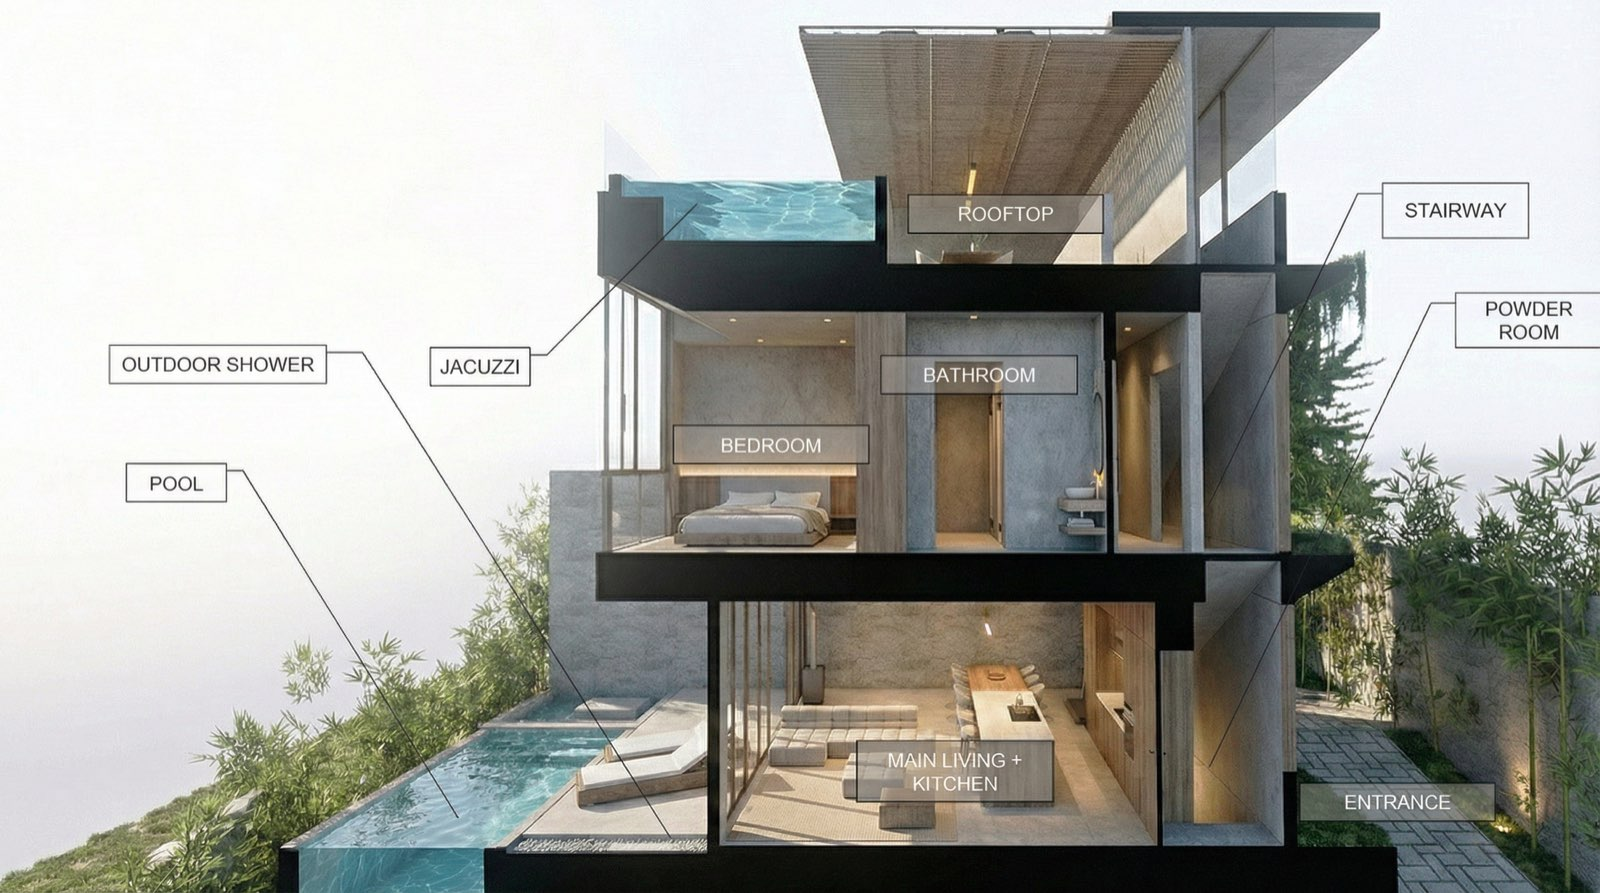
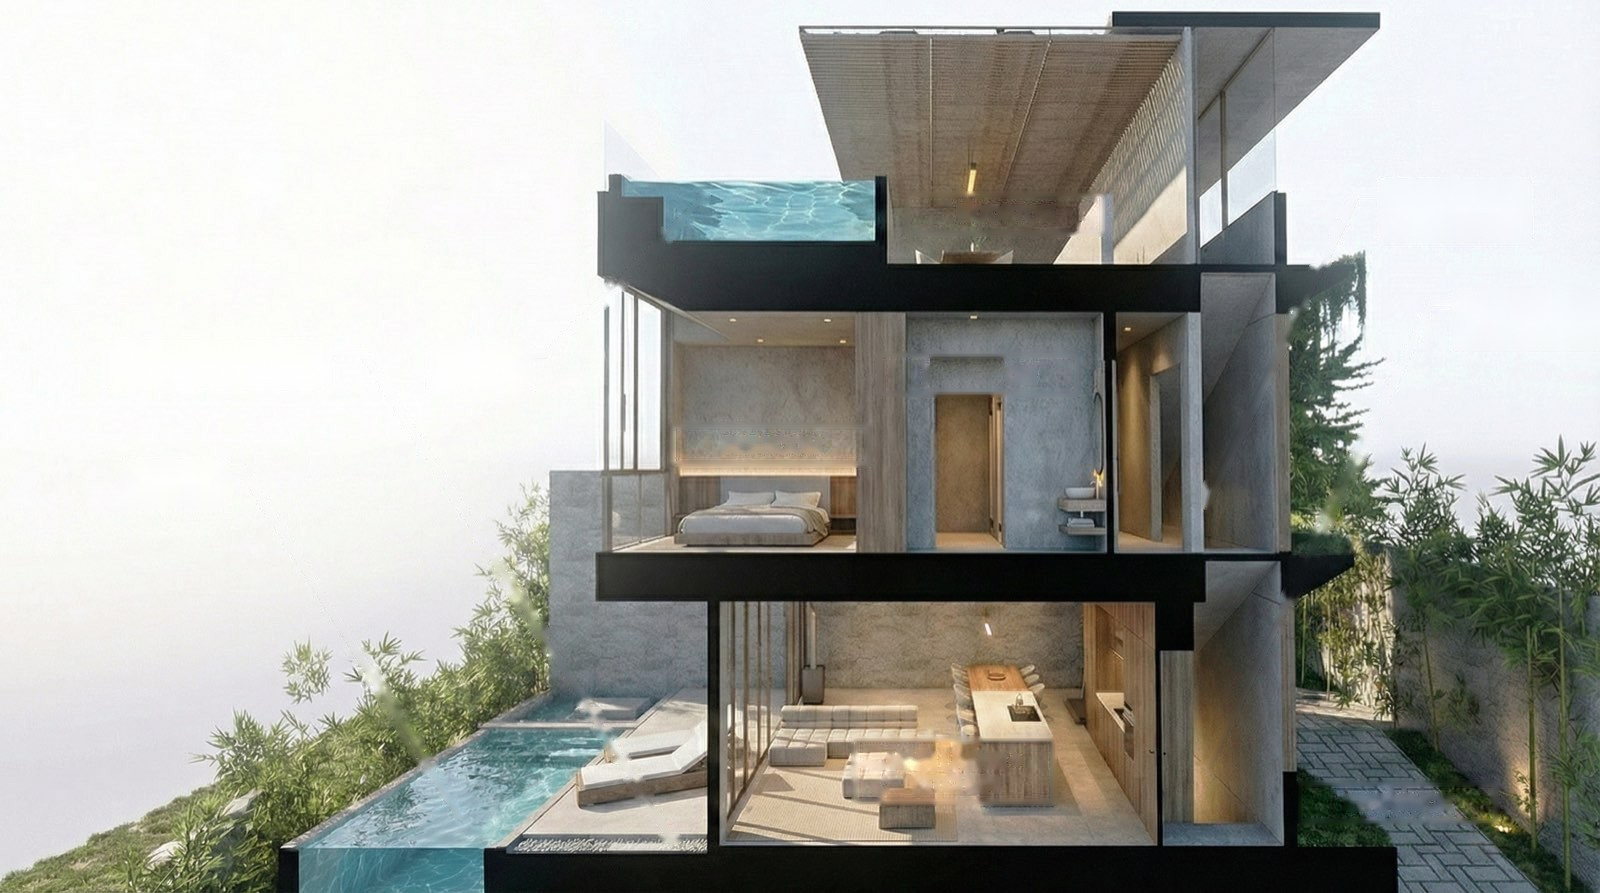
Remove the baked-in labels from the section drawing
The level bands and the floorplan key now name every room, so the grey label
boxes and leader lines printed on the render only added clutter. Labels over
the sky were filled from their surroundings; those over the interior had their
grey tint reversed and only the lettering painted over. Bumps the image URL so
cached copies refresh.

Claude-Session: https://claude.ai/code/session_01ERckJyE6Fn1BmKJxGNPjDB

diff --git a/brochure/index.html b/brochure/index.html
@@ -742,7 +742,7 @@ body.narrow .price-t td{ font-size:.8em; }
       <h2 class="fat-title sec-title">The villa, in section</h2>
       <p class="sec-lede">Living opens straight onto the pool, the bedrooms sit above it, and the roof is a terrace of its own. Choose a level to see what is on it.</p>
       <div class="sec-fig">
-        <img src="img/13.jpg" alt="Cut-away section of the villa: living, kitchen and pool on the ground floor, a bedroom and bathroom above, and a roof terrace with a jacuzzi on top" width="1600" height="893" loading="lazy" decoding="async">
+        <img src="img/13.jpg?v=2" alt="Cut-away section of the villa: living, kitchen and pool on the ground floor, a bedroom and bathroom above, and a roof terrace with a jacuzzi on top" width="1600" height="893" loading="lazy" decoding="async">
         <!-- one band per level, top and height in % of the drawing -->
         <button type="button" class="sec-band" data-level="2" style="top:0;height:34%" aria-label="Roof terrace"><span class="sec-no">02</span></button>
         <button type="button" class="sec-band" data-level="1" style="top:34%;height:32.5%" aria-label="Upper floor"><span class="sec-no">01</span></button>
@@ -1098,7 +1098,7 @@ body.narrow .price-t td{ font-size:.8em; }
     { id:0, no:'00', name:'Ground floor', tab:'Ground',
       rooms:'Living and kitchen · Infinity pool · Outdoor shower · Powder room',
       line:'Open-plan living and kitchen with full-height glass onto the pool deck; the infinity pool runs along the cliff edge.',
-      img:'img/13.jpg', w:1600, h:893, crop:[240,400,1600,893], veilTo:610, cap:'Shown in section', drawn:true,
+      img:'img/13.jpg?v=2', w:1600, h:893, crop:[240,400,1600,893], veilTo:610, cap:'Shown in section', drawn:true,
       key:[ { t:'Entrance',          p:[[1398,742]] },
             { t:'Stairway',          p:[[1232,665]] },
             { t:'Powder room',       p:[[1212,790]] },
